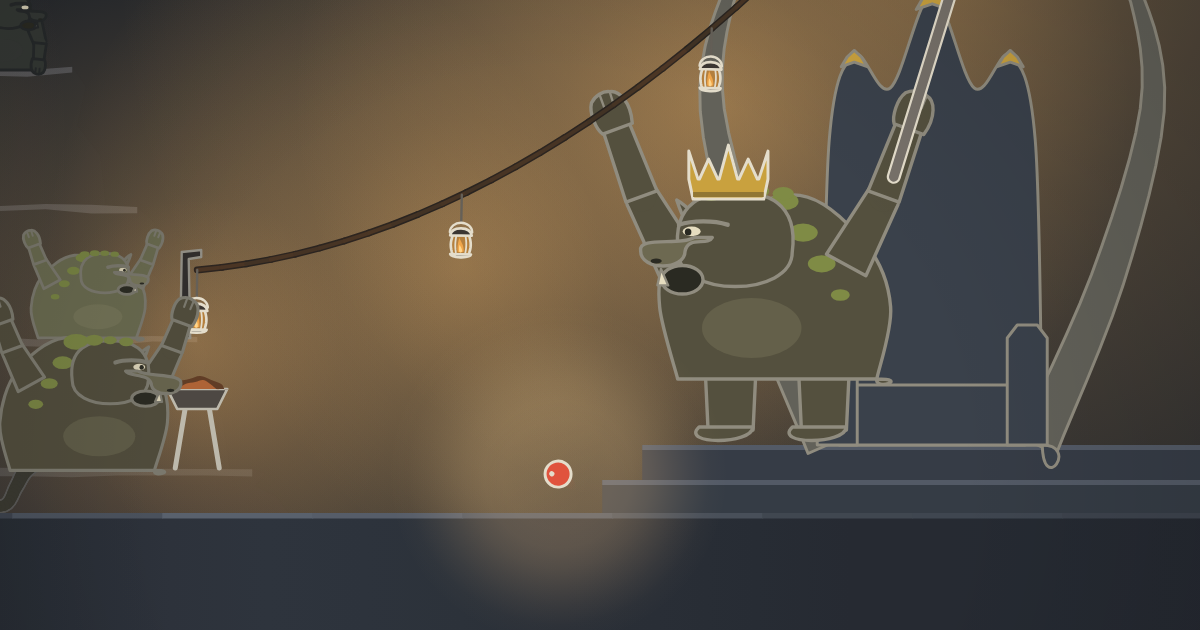
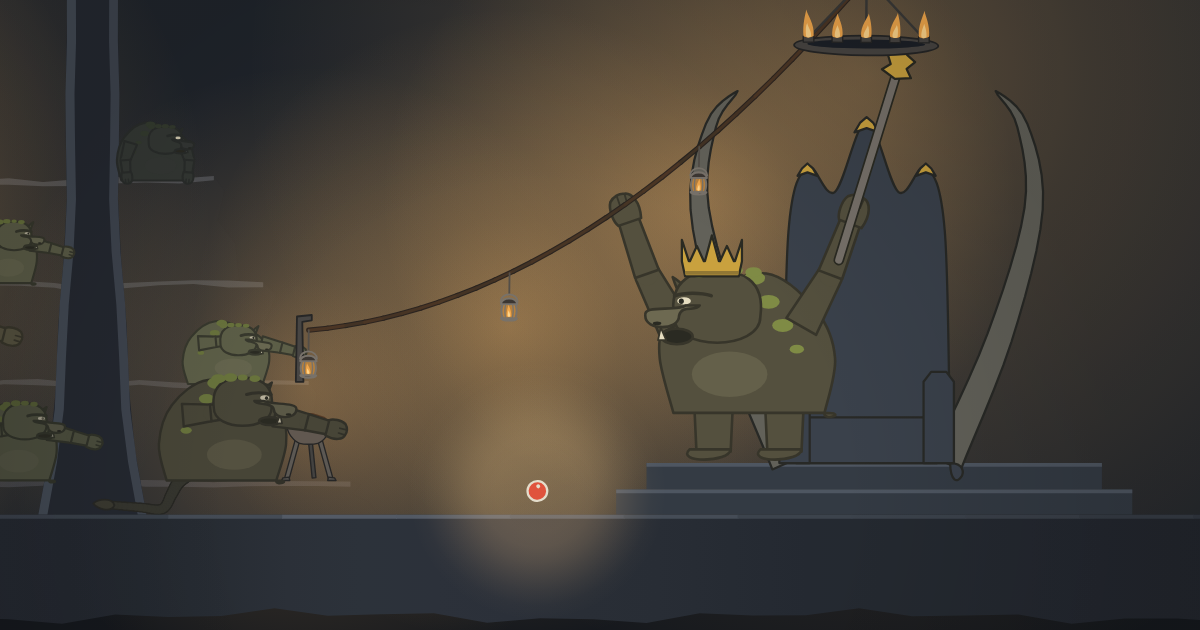
Mountain King: the share card at 64.8, the King roaring with arms and sceptre highest, the court as masses

diff --git a/apps/rube/src/shows/versions/mountain-king/opus55.show.ts b/apps/rube/src/shows/versions/mountain-king/opus55.show.ts
@@ -4,6 +4,6 @@ export default defineShow({
   title: 'Mountain King',
   label: 'Opus 5.5',
   about: "Grieg's In the Hall of the Mountain King as a Rube Goldberg machine: Peer Gynt sneaks into the troll king's hall, and the chase speeds up until the mountain comes down.",
-  still: 64.5,
+  still: 64.8,
   async load() { return (await import('./dovre')).performance },
 })
